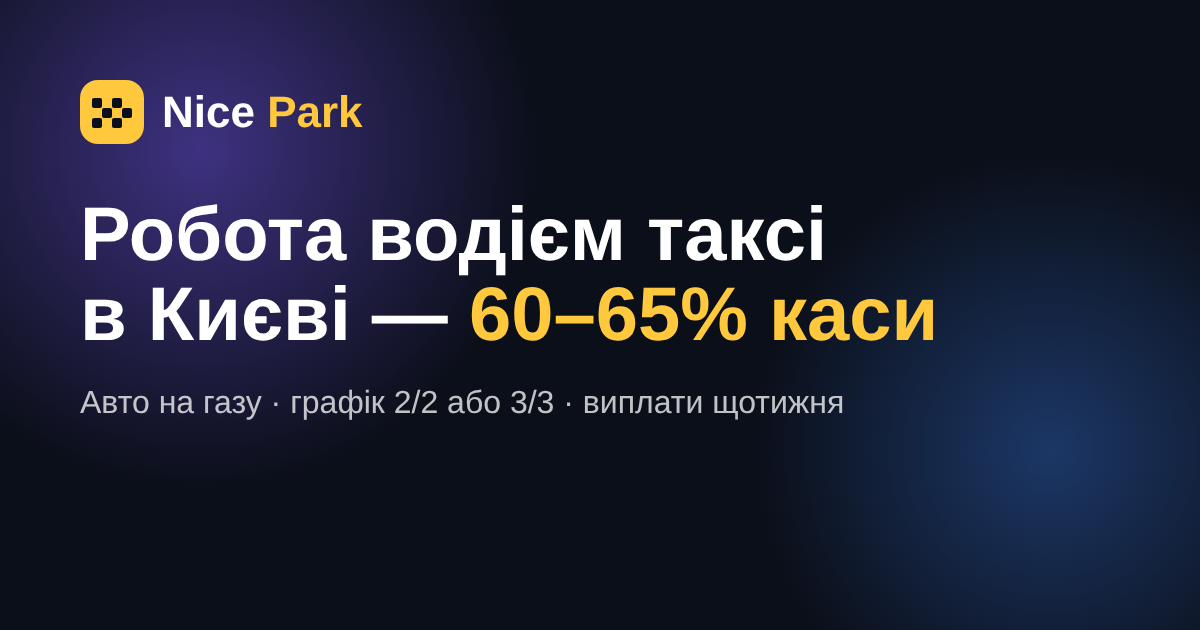
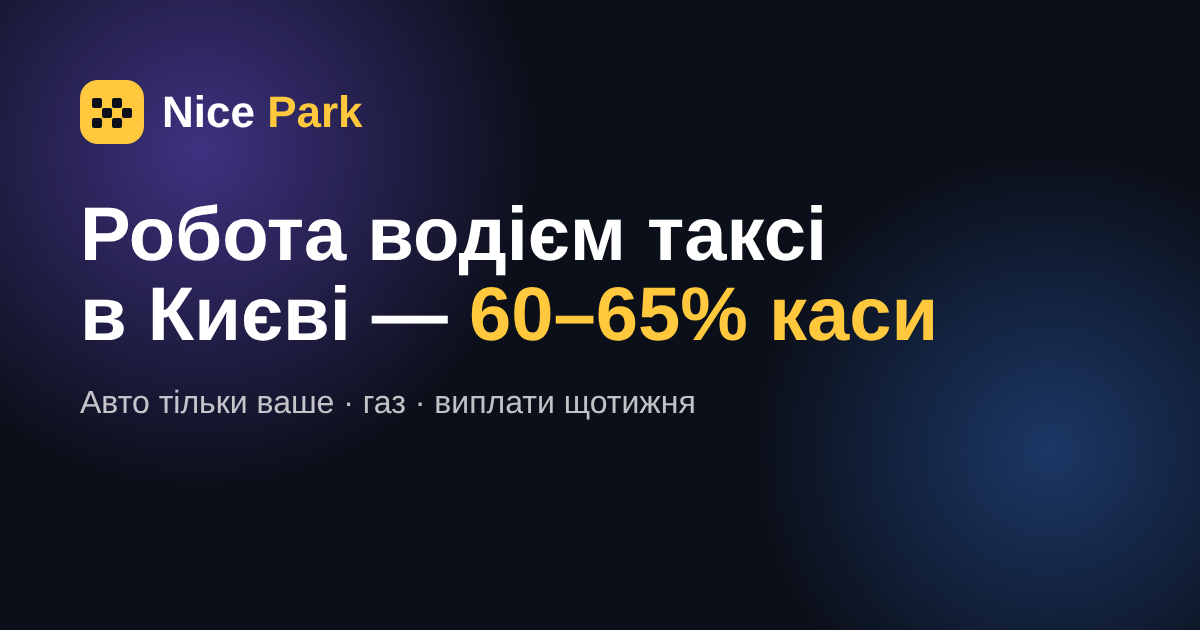
Nice Park: emphasize working solo on the car, not only in shifts
- Hero subtitle and second fact now lead with "1 водій на авто — без
  змінника", with 2/2 and 3/3 as the alternative
- New highlighted first benefit card "Авто тільки ваше" replaces the
  generic schedule card
- New FAQ entry about working alone; plan wording updated
- SEO description and OG image text updated

Claude-Session: https://claude.ai/code/session_01De9zj5Tbqj114JycbbhKAa

Changed region(s): [[0.1233, 0.6032, 0.7092, 0.6635]]

diff --git a/nice-park/src/config/site.ts b/nice-park/src/config/site.ts
@@ -12,7 +12,7 @@ export const site = {
   seo: {
     title: "Nice Park — робота водієм таксі в Києві, 60–65% каси",
     description:
-      "Автопарк таксі Nice Park у Києві: 60% каси водію, до 65% з високої каси. Авто на газу, графік 2/2 або 3/3, виплати щотижня на ФОП. Заповніть анкету за 3 хвилини.",
+      "Автопарк таксі Nice Park у Києві: 60% каси водію, до 65% з високої каси. Авто тільки ваше — працюйте самі, без змінника (або 2/2, 3/3 у парі). Авто на газу, виплати щотижня на ФОП. Заповніть анкету за 3 хвилини.",
   },
   contacts: {
     telegram: "@PLACEHOLDER",
@@ -72,13 +72,13 @@ export const hero = {
   badge: "Автопарк таксі · Київ",
   title: "Заробляй більше на авто Nice Park",
   subtitle:
-    "60% каси водію, до 65% з високої каси. Авто на газу, графік на вибір, виплати щотижня",
+    "60% каси водію, до 65% з високої каси. Авто тільки ваше — працюйте самі, без змінника. Газ, виплати щотижня",
   primaryCta: "Заповнити анкету",
   secondaryCta: "Порахувати дохід",
   // {0}, {1}… — числа, що анімуються від 0
   facts: [
     { template: "до {0}%", values: [65], label: "каси водію з високої каси" },
-    { template: "{0}/{0} або {1}/{1}", values: [2, 3], label: "графік на вибір" },
+    { template: "{0} водій", values: [1], label: "на авто — без змінника. Або 2/2, 3/3 у парі" },
     { template: "{0} виплати", values: [52], label: "на рік — щотижня, на ваш ФОП" },
   ],
 };
@@ -88,6 +88,12 @@ export const benefits = {
   title: "Умови, про які зазвичай тільки мріють",
   items: [
     {
+      icon: "car",
+      title: "Авто тільки ваше",
+      text: "Працюйте самі, без змін і змінника: авто весь час у вас, їздите, коли зручно. Хочете в парі — є 2/2 і 3/3.",
+      highlight: "Головне",
+    },
+    {
       icon: "receipt",
       title: "Прозорі виплати",
       text: "Щотижневий звіт по кожній поїздці — бачите, з чого складається кожна гривня.",
@@ -96,11 +102,6 @@ export const benefits = {
       icon: "home",
       title: "Авто ночує біля дому",
       text: "Не треба їхати в парк зранку — машина чекає під вашим під'їздом.",
-    },
-    {
-      icon: "users",
-      title: "Графік на вибір",
-      text: "2/2 або 3/3 з напарником, або один на авто — як вам зручніше.",
     },
     {
       icon: "clock",
@@ -142,7 +143,7 @@ export const conditions = {
     },
     {
       title: "Зрозумілий план",
-      text: "Один на авто — від 20 000 грн/тиждень (ціль 25 000). У парі — від 3 500 грн за зміну.",
+      text: "Самі на авто, без змінника — від 20 000 грн/тиждень (ціль 25 000). У парі — від 3 500 грн за зміну.",
     },
     {
       title: "Пальне — за рахунок водія",
@@ -194,6 +195,10 @@ export const faq = {
     {
       q: "Чи потрібен ФОП?",
       a: "Так. Його можна відкрити безкоштовно за 1 день у Дії — податок близько 6% замість 23%. Якщо потрібно, допоможемо пройти всі кроки.",
+    },
+    {
+      q: "Можна працювати самому, без змінника?",
+      a: "Так, це основний формат: авто закріплене тільки за вами і ночує біля вашого дому, час виходу на лінію обираєте самі. План — від 20 000 грн за тиждень. Якщо хочете менше навантаження, є графік 2/2 або 3/3 з напарником.",
     },
     {
       q: "Хто платить за ремонт?",

diff --git a/nice-park/src/components/Benefits.tsx b/nice-park/src/components/Benefits.tsx
@@ -1,4 +1,4 @@
-import { Clock, Fuel, Handshake, House, Receipt, Users, type LucideIcon } from "lucide-react";
+import { CarFront, Clock, Fuel, Handshake, House, Receipt, type LucideIcon } from "lucide-react";
 import { benefits } from "@/config/site";
 import { RevealItem, Stagger } from "./Reveal";
 import { SectionHeading } from "./SectionHeading";
@@ -6,7 +6,7 @@ import { SectionHeading } from "./SectionHeading";
 const icons: Record<string, LucideIcon> = {
   receipt: Receipt,
   home: House,
-  users: Users,
+  car: CarFront,
   clock: Clock,
   fuel: Fuel,
   handshake: Handshake,
@@ -20,8 +20,17 @@ export function Benefits() {
         <Stagger className="mt-10 grid gap-4 sm:grid-cols-2 lg:grid-cols-3 lg:gap-5">
           {benefits.items.map((b) => {
             const Icon = icons[b.icon];
+            const badge = "highlight" in b ? b.highlight : undefined;
             return (
-              <RevealItem key={b.title} className="glass card-hover group p-6">
+              <RevealItem
+                key={b.title}
+                className={`glass card-hover group relative p-6 ${badge ? "border-taxi/50 bg-taxi/[0.07] shadow-glow" : ""}`}
+              >
+                {badge && (
+                  <span className="absolute right-5 top-5 rounded-full bg-taxi px-2.5 py-1 text-xs font-bold text-ink">
+                    {badge}
+                  </span>
+                )}
                 <div className="flex h-12 w-12 items-center justify-center rounded-xl bg-gradient-to-br from-taxi to-taxi-deep text-ink shadow-glow transition group-hover:scale-110">
                   <Icon className="h-6 w-6" aria-hidden />
                 </div>
